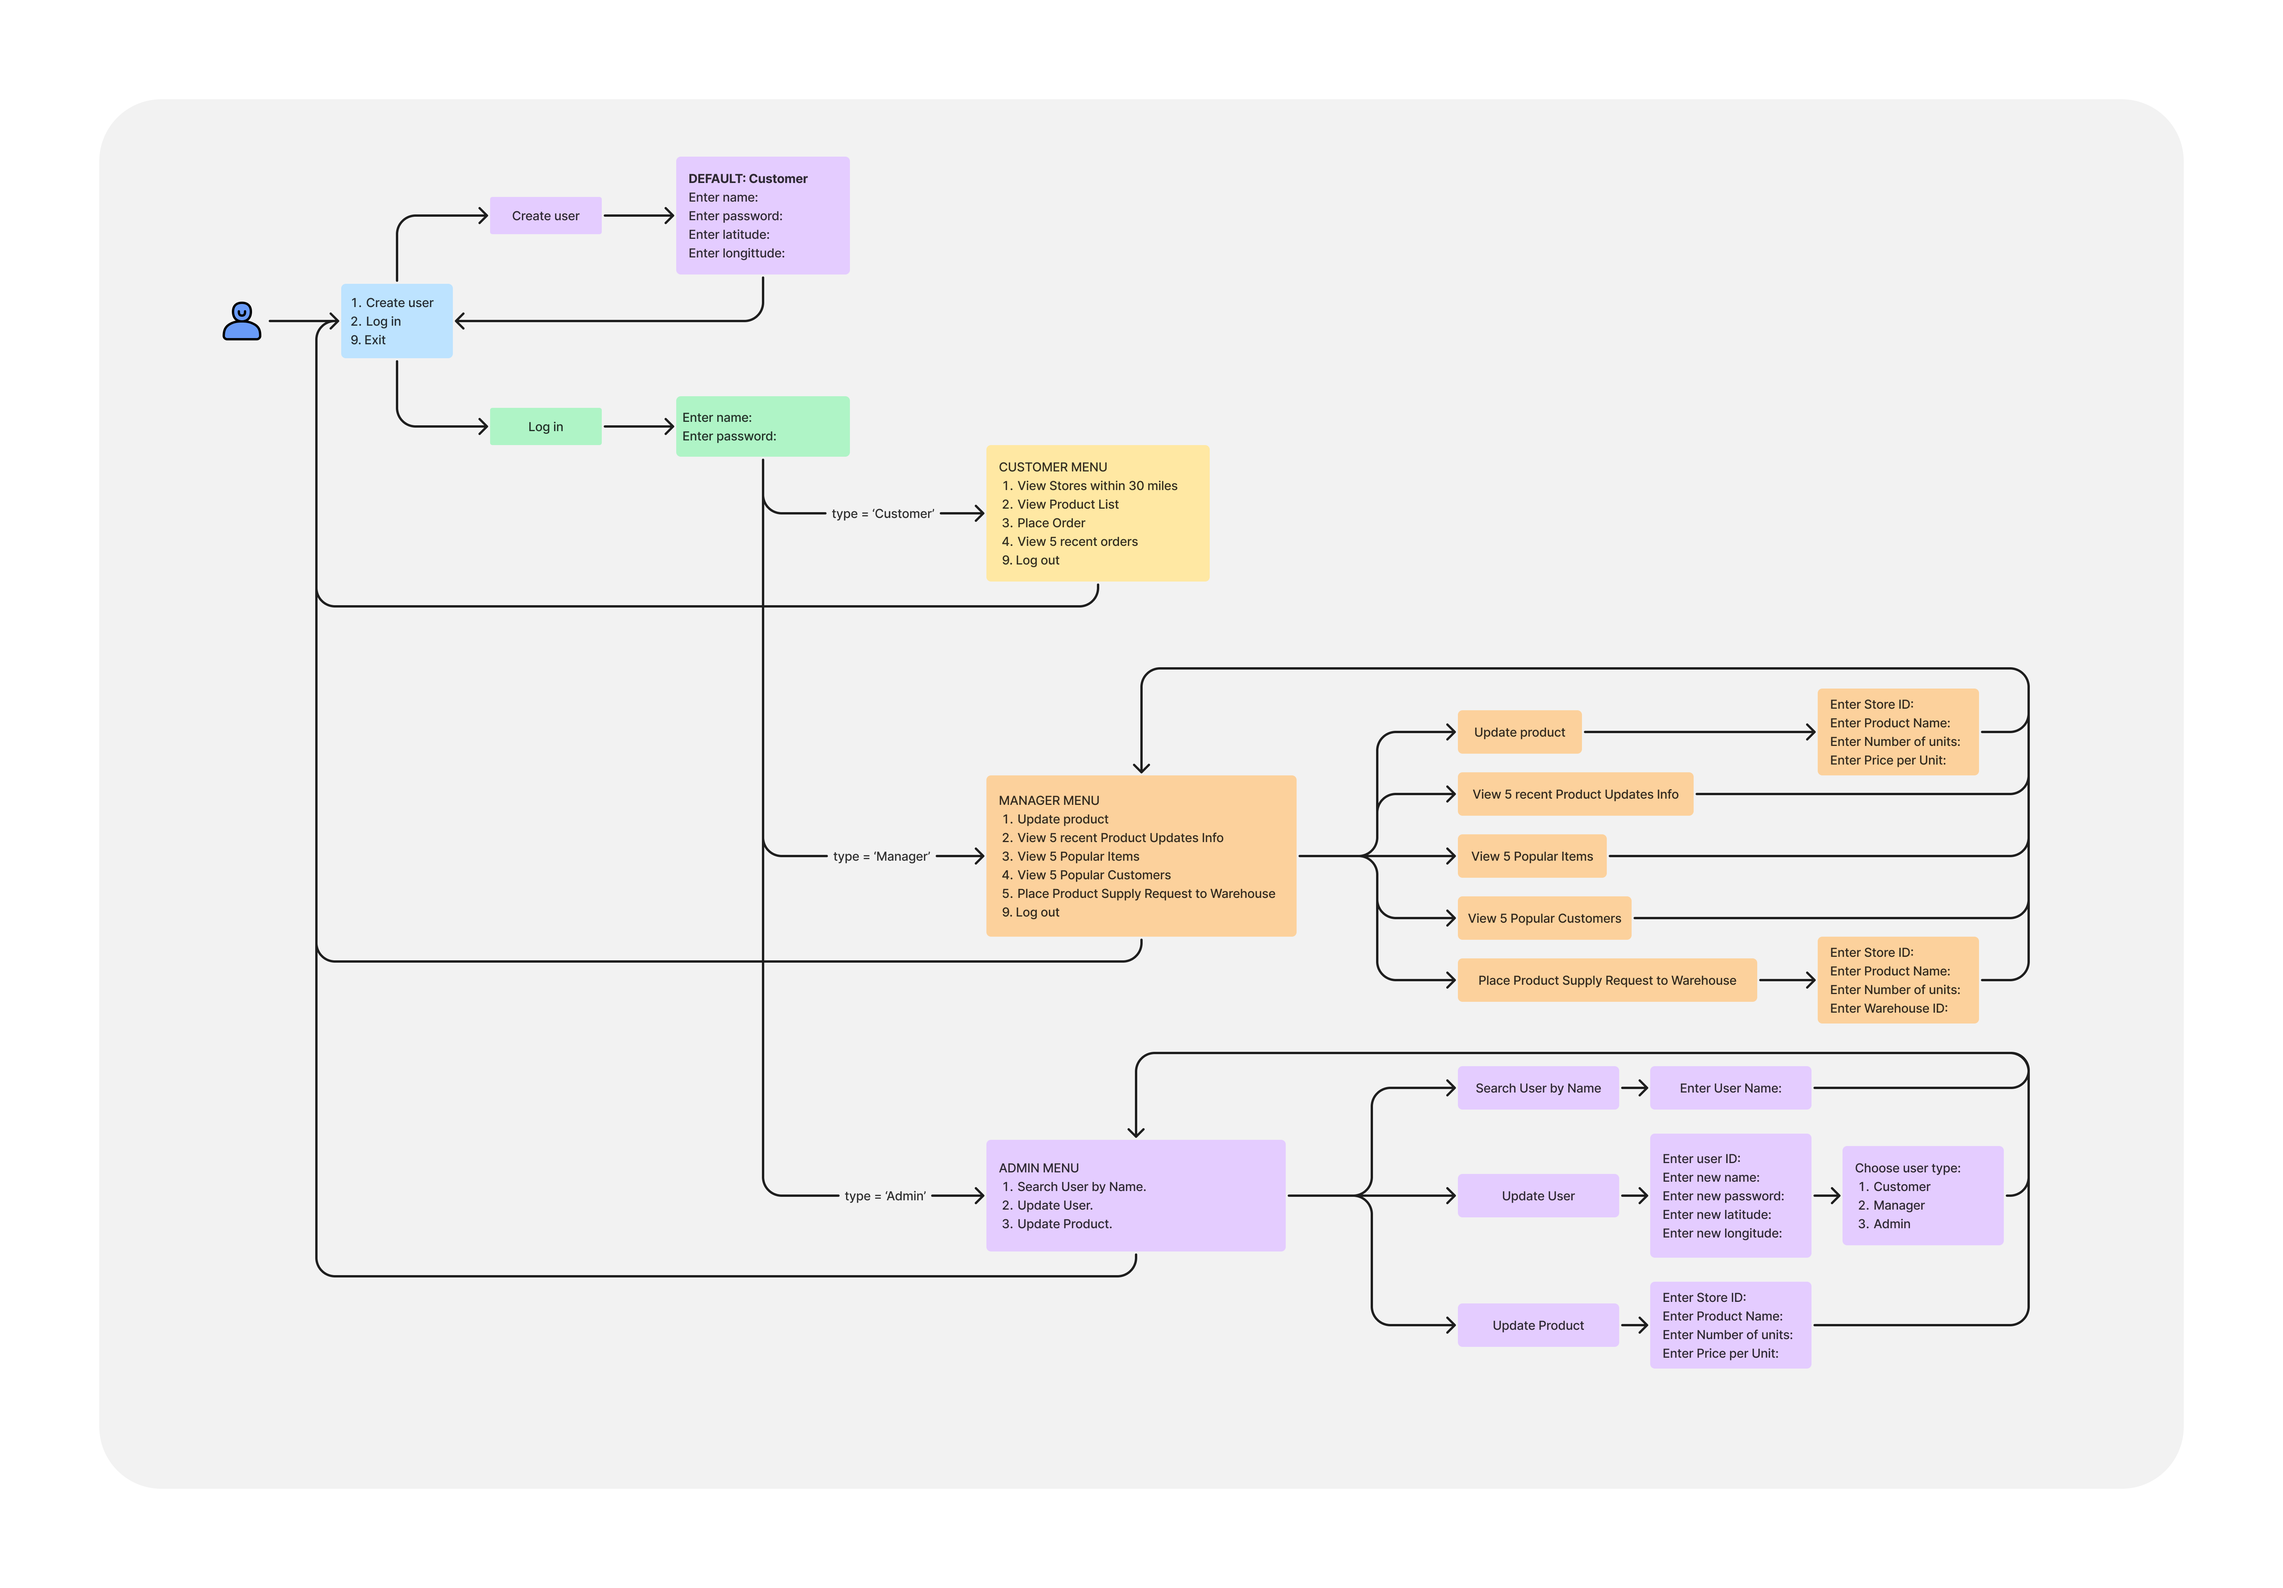
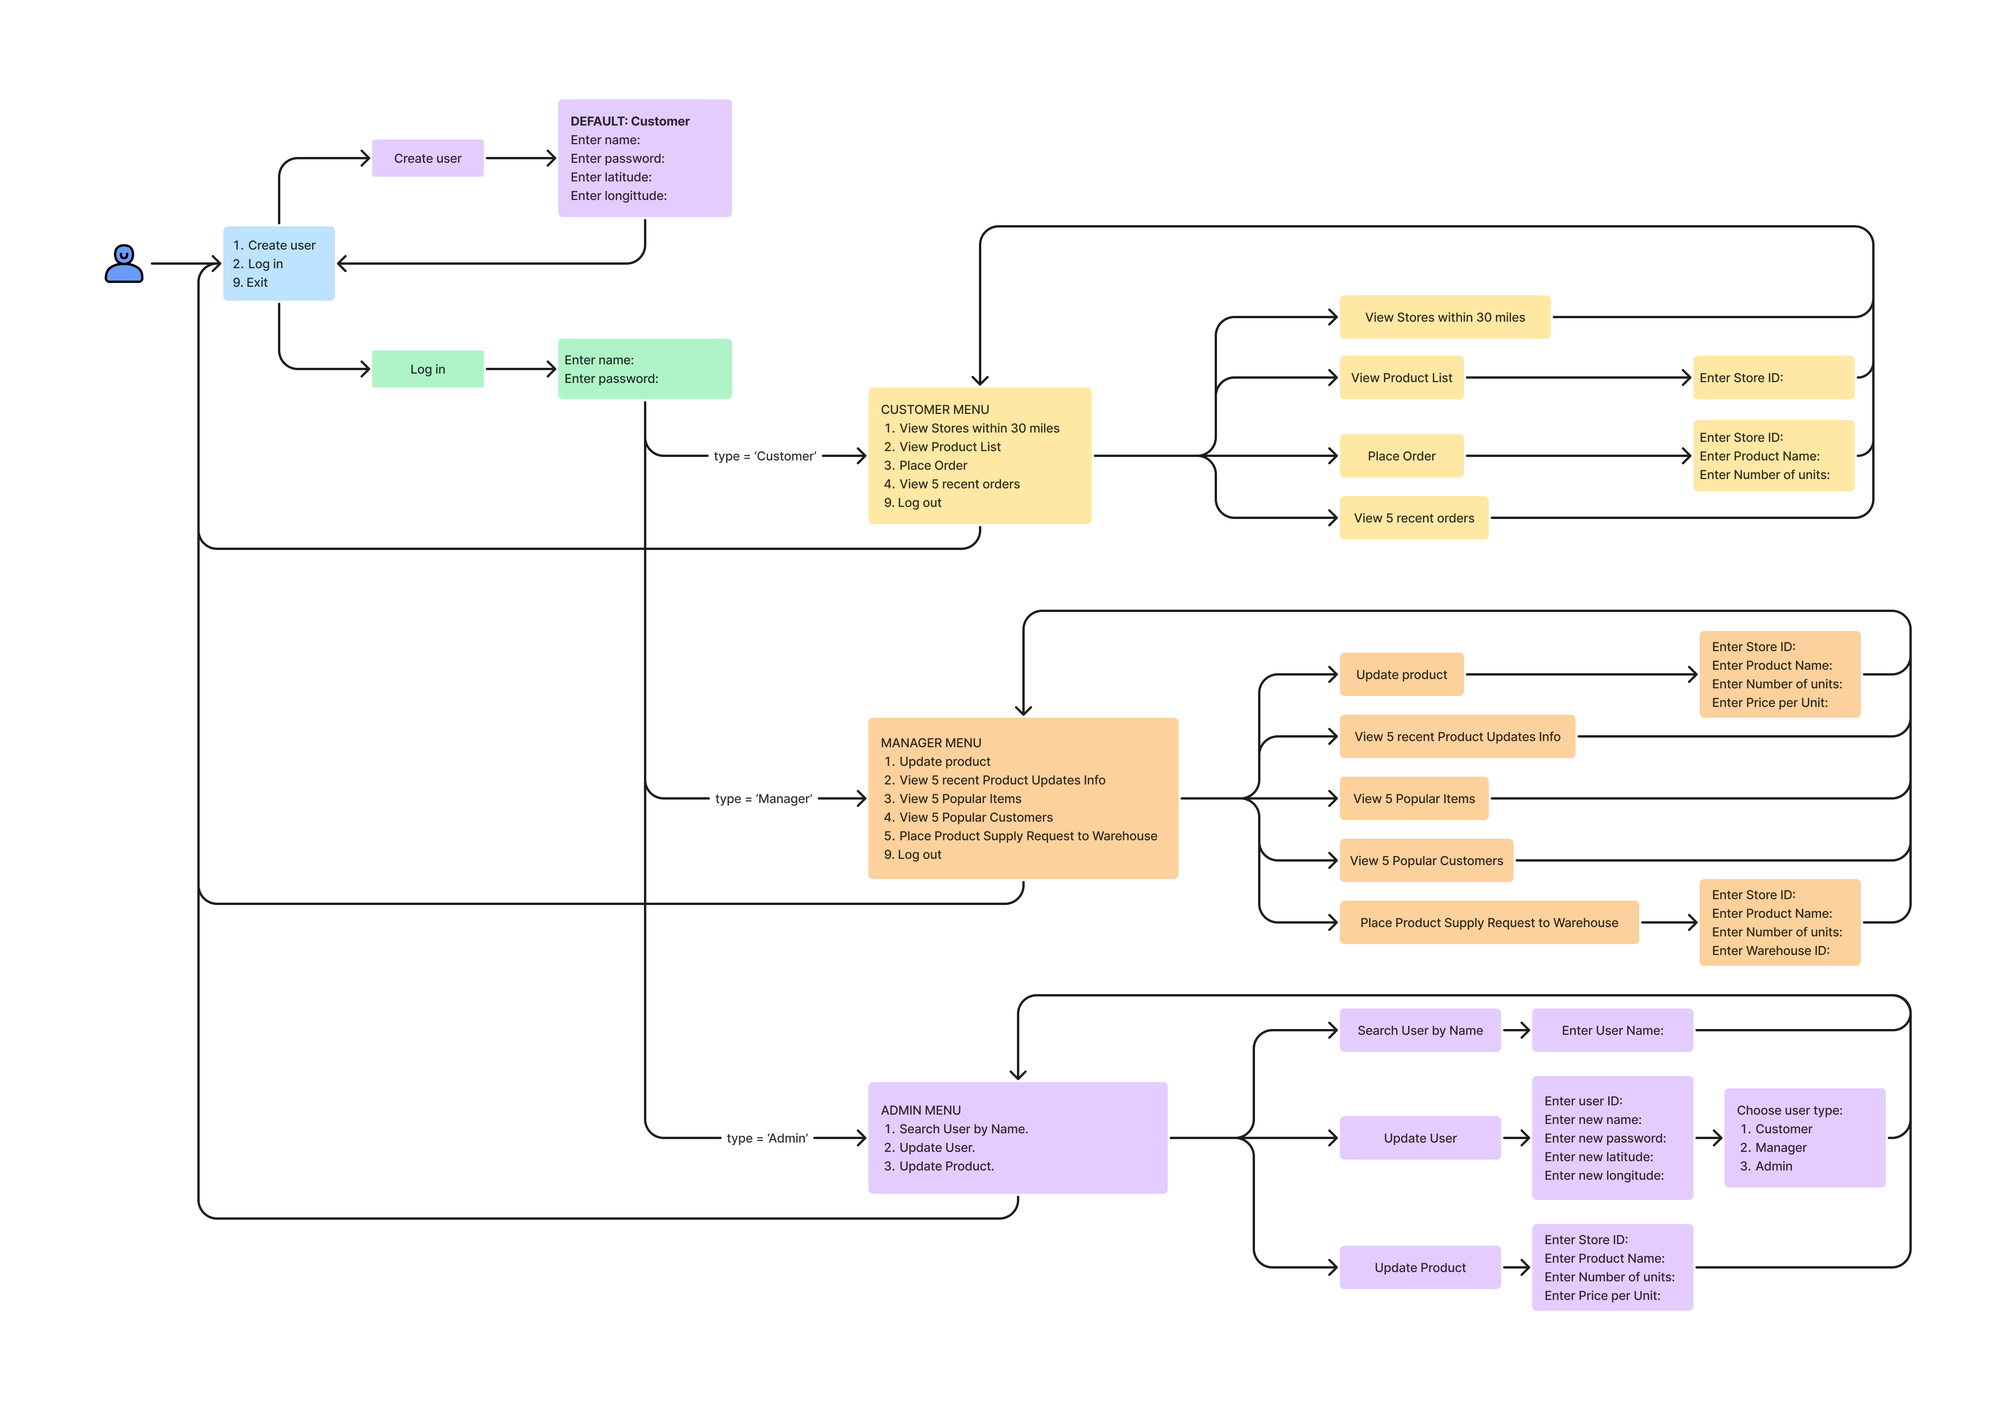
Update README.md

diff --git a/README.md b/README.md
@@ -6,7 +6,7 @@ Group #65
 
 | Name | NetID |
 |---|---|
-| [Adlai Morales-Bravo](https://github.com/AdlaiMB) | |
+| [Adlai Morales-Bravo](https://github.com/AdlaiMB) | **amora190** |
 | [Denis Melnikov](https://github.com/deet5) | **dmeln003** | 
 
 ## Implementation Description
@@ -127,6 +127,54 @@ UPDATE Users SET name = <UserName>, password = <Password>, latitude = <Latitude>
 ```
 This query is used by `Admin` to update user information.
 
+### Return all store's latitude and longitude.
+```
+SELECT storeID, latitude, longitude FROM Store
+```
+This is query is used to get all store's latitude and longitude for checking distance to customer.
+
+### Return user's latitude and longitude given user ID.
+```
+SELECT latitude, longitude FROM Users WHERE userid = <UserID>
+```
+This is query is used to get the users latitude and longitude for checking store distance.
+
+### Return all store's givin store IDs.
+```
+SELECT storeID FROM Store WHERE storeID IN <StoreIDs> 
+```
+This query is used to check if stores are within a set of store IDs with a valid distance to customer. 
+
+### Return products given store ID.
+```
+SELECT productName, numberOfUnits, pricePerUnit FROM Product WHERE storeID = <StoreId>
+```
+This query if used to return all products within a store.
+
+### Return store latitude and longitdue given store ID.
+```
+SELECT latitude, longitude FROM Store WHERE storeid = <StoreID>
+```
+This query is used to get a store to check its distance to a customer. 
+
+### Update product number of units in a given store.
+```
+UPDATE Product SET numberofunits = <NumberofUnits> WHERE storeid = <StoreID> AND productname = <ProductName>
+```
+This query is used to update a prouduct from a order from a `Customer`.
+
+### Add a new record to the order.
+```
+INSERT INTO Orders (customerid, storeid, productname, unitsOrdered, orderTime) VALUES (<CustomerID>, <StoreID>, <ProductName>, <UnitsOrdered>, <CurrentDate>)
+```
+This query is to insert a new order from a `Customer`
+
+### Return the last 5 orders given customer ID.
+```
+SELECT productName, unitsOrdered, orderTime FROM Orders WHERE customerID = <CustomerID> ORDER BY orderTime DESC LIMIT 5
+```
+This query is used to get the five latest orders from a `Customer`.
+
 ### Extra credit
 
 #### Triggers
@@ -190,4 +238,7 @@ This index improves the query on `Orders`.
 - Added trigger for product updates
 
 **Adlai Morales-Bravo**
-
+- Added viewStores for Customers
+- Added viewProducts for Customers
+- Added placeOrders for Customers
+- Added viewRecentOrders for Customers
